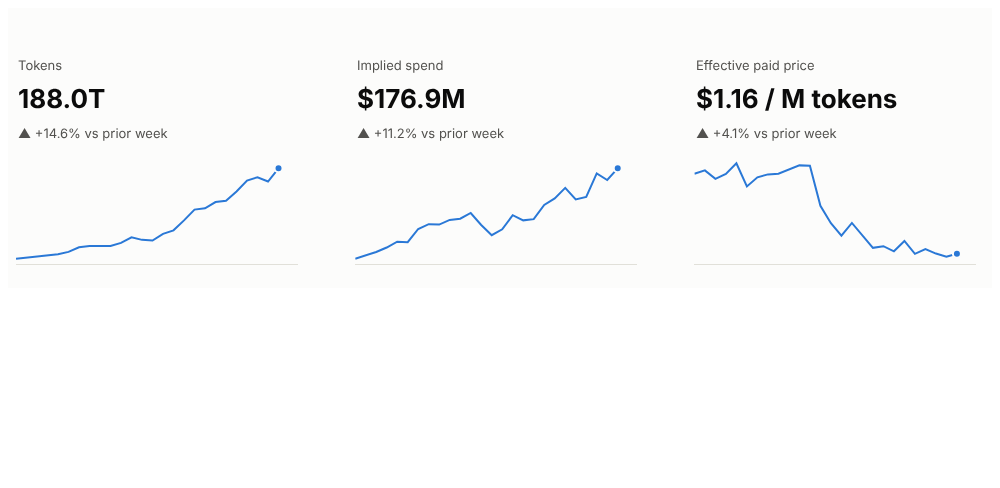
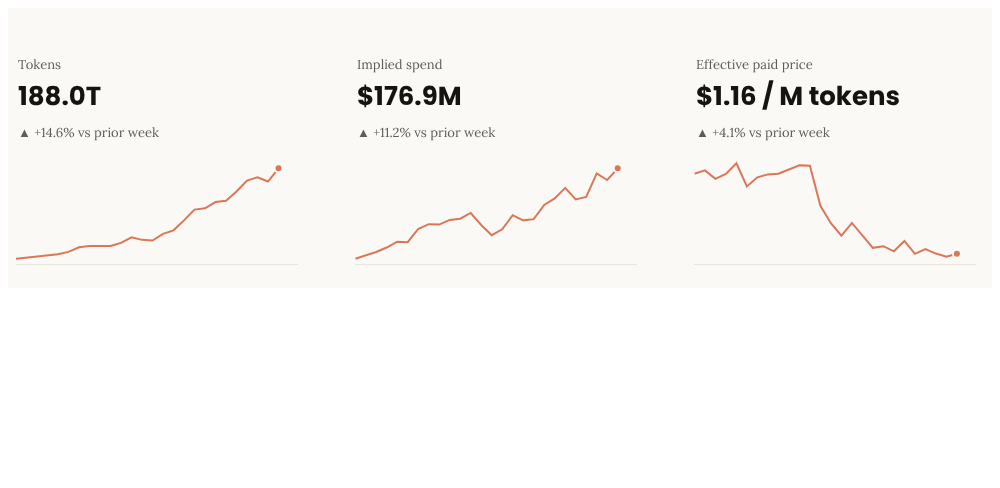
Hex cells in Anthropic brand colors and type
Claude-Session: https://claude.ai/code/session_01GEqrhtmDpfoTFhtnQ5vhsh

diff --git a/dashboards/hex/python/05_providers.py b/dashboards/hex/python/05_providers.py
@@ -1,5 +1,6 @@
 # Hex Python cell 5: provider share over time - tokens and spend side by side.
-# Inputs: `selected_providers` (multiselect, options = provider_options) and
+# Inputs: `selected_providers` (multiselect, options = provider_options,
+#         default = default_providers) and
 #         `token_basis` (dropdown): "All tokens" or "Paid tokens".
 token_col = "token_share" if token_basis == "All tokens" else "paid_token_share"
 p = providers[providers.week_start > latest_week - pd.Timedelta(weeks=26)].copy()
@@ -7,7 +8,7 @@ p["group"] = p.provider.where(p.provider.isin(selected_providers), "All others")
 p = p.groupby(["week_start", "group"], as_index=False)[[token_col, "spend_share"]].sum()
 
 fig_providers = make_subplots(
-    rows=1, cols=2, shared_yaxes=True, horizontal_spacing=0.04,
+    rows=1, cols=2, shared_yaxes=True, horizontal_spacing=0.12,
     subplot_titles=(f"Share of {token_basis.lower()}", "Share of implied spend"),
 )
 order = [g for g in top_providers if g in set(p.group)] + ["All others"]
@@ -16,17 +17,37 @@ for g in order:
     for col, value in ((1, token_col), (2, "spend_share")):
         fig_providers.add_trace(go.Scatter(
             x=d.week_start, y=d[value], mode="lines", name=g, legendgroup=g,
-            showlegend=col == 1, line=dict(color=provider_colors[g], width=2),
+            showlegend=col == 1,
+            line=dict(color=provider_styles[g][0], width=2, dash=provider_styles[g][1]),
             hovertemplate=f"{g}<br>%{{x|%Y-%m-%d}}: %{{y:.1%}}<extra></extra>",
         ), row=1, col=col)
+# Direct labels at the line ends when there are few enough lines to label cleanly; labels
+# that would overlap are nudged apart vertically.
+if len(order) <= 4:
+    last = p[p.week_start == p.week_start.max()]
+    for col, value in ((1, token_col), (2, "spend_share")):
+        ends = sorted(
+            (float(last.loc[last.group == g, value].iloc[0]), g)
+            for g in order if (last.group == g).any()
+        )
+        gap = 0.045 * max(p[token_col].max(), p.spend_share.max())
+        placed = []
+        for y, g in ends:
+            y_label = max(y, placed[-1] + gap) if placed else y
+            placed.append(y_label)
+            fig_providers.add_annotation(
+                x=f"{last.week_start.iloc[0]:%Y-%m-%d}", y=y_label, text=g,
+                showarrow=False, xanchor="left", xshift=6, font=dict(size=11, color=INK_2),
+                row=1, col=col,
+            )
 base_layout(
     fig_providers, "Who holds the tokens, and who holds the spend",
     "A provider whose spend share is above its token share sells pricier tokens. Last 26 weeks.",
     height=440,
 )
-fig_providers.update_layout(margin=dict(t=110))
+fig_providers.update_layout(margin=dict(t=110, r=90))
 fig_providers.update_yaxes(tickformat=".0%", rangemode="tozero")
-fig_providers.update_annotations(font=dict(color=INK_2, size=13), xanchor="left", x=None)
-for i, a in enumerate(fig_providers.layout.annotations[:2]):
-    a.update(x=[0, 0.52][i], y=1.04, yanchor="bottom")
+for i, a in enumerate(fig_providers.layout.annotations[:2]):  # the two panel titles
+    a.update(x=[0, 0.56][i], y=1.04, xanchor="left", yanchor="bottom",
+             font=dict(color=INK_2, size=13))
 fig_providers

diff --git a/dashboards/hex/python/01_setup.py b/dashboards/hex/python/01_setup.py
@@ -3,20 +3,27 @@ import pandas as pd
 import plotly.graph_objects as go
 from plotly.subplots import make_subplots
 
-SURFACE = "#fcfcfb"
-INK, INK_2, MUTED = "#0b0b0b", "#52514e", "#898781"
-GRID, AXIS = "#e1e0d9", "#c3c2b7"
-UP, DOWN = "#2a78d6", "#e34948"  # diverging pair: increase / decrease
-BAND = "#cde2fb"
-SERIES = ["#2a78d6", "#eb6834", "#1baf7a", "#eda100", "#e87ba4", "#008300", "#6250d6", "#898781"]
-FONT = dict(family='system-ui, -apple-system, "Segoe UI", sans-serif', color=INK, size=13)
+# Anthropic brand palette (github.com/anthropics/skills, brand-guidelines). The blue and
+# green accents are used one step darker so lines clear 3:1 contrast on the light surface;
+# orange and green are hard to tell apart for red-green colorblind readers, so series also
+# differ by dash pattern and carry direct labels.
+SURFACE = "#faf9f5"  # brand Light
+INK, INK_2, MUTED = "#141413", "#5e5d58", "#87867f"  # brand Dark, then two grays toward Mid Gray
+GRID, AXIS = "#e8e6dc", "#b0aea5"  # brand Light Gray, Mid Gray
+ORANGE, BLUE, GREEN = "#d97757", "#4f7fae", "#5f7a3f"
+UP, DOWN = BLUE, ORANGE  # bridge: increase / decrease
+BAND = "#dbe6f1"  # blue tint for the forecast interval
+HEADING_FONT = "Poppins, Arial, sans-serif"
+BODY_FONT = "Lora, Georgia, serif"
+FONT = dict(family=HEADING_FONT, color=INK, size=13)
 SOURCE = "Source: OpenRouter (openrouter.ai/rankings), CC BY 4.0"
 
 
 def base_layout(fig, title, subtitle=None, height=380):
     text = f"<b>{title}</b>"
     if subtitle:
-        text += f"<br><span style='font-size:12px;color:{INK_2}'>{subtitle}</span>"
+        text += (f"<br><span style='font-size:12px;color:{INK_2};font-family:{BODY_FONT}'>"
+                 f"{subtitle}</span>")
     fig.update_layout(
         title=dict(text=text, x=0, xanchor="left", font=dict(size=16)),
         font=FONT, height=height, paper_bgcolor=SURFACE, plot_bgcolor=SURFACE,
@@ -59,14 +66,18 @@ providers = as_dates(providers, "week_start")
 latest_week = pd.to_datetime(as_of["latest_week"].iloc[0])
 data_through = pd.to_datetime(as_of["data_through_date"].iloc[0])
 
-# Provider colors follow the provider, not its rank in a filtered view: fixed once from the
-# latest week's spend. The top 7 get colors; the rest fold into "All others" (gray).
+# Provider styles follow the provider, not its rank in a filtered view: fixed once from the
+# latest week's spend. The top 7 get a color and dash; the rest fold into "All others".
 latest_spend = providers[providers.week_start == latest_week].sort_values(
     "implied_spend_usd", ascending=False
 )
 top_providers = [p for p in latest_spend.provider if p != "other"][:7]
-provider_colors = {p: SERIES[i] for i, p in enumerate(top_providers)} | {"All others": SERIES[7]}
+STYLES = [(c, d) for d in ("solid", "dash", "dot") for c in (ORANGE, BLUE, GREEN)]
+provider_styles = {p: STYLES[i] for i, p in enumerate(top_providers)} | {
+    "All others": (AXIS, "dot")
+}
 provider_options = top_providers  # options for the provider multiselect input
+default_providers = top_providers[:3]  # the multiselect's default
 
 # For the app's markdown cells: {{ data_through_label }} and {{ latest_week_label }}
 data_through_label = f"{data_through:%Y-%m-%d}"

diff --git a/dashboards/hex/python/02_headline.py b/dashboards/hex/python/02_headline.py
@@ -15,7 +15,7 @@ fig_headline = make_subplots(rows=1, cols=3, horizontal_spacing=0.06)
 for i, (name, value, change, data, col, fmt) in enumerate(tiles, start=1):
     fig_headline.add_trace(
         go.Scatter(
-            x=data.week_start, y=data[col], mode="lines", line=dict(color=SERIES[0], width=2),
+            x=data.week_start, y=data[col], mode="lines", line=dict(color=ORANGE, width=2),
             hovertemplate="%{x|%b %d, %Y}: %{customdata}<extra></extra>",
             customdata=[fmt(v) for v in data[col]], showlegend=False,
         ),
@@ -23,21 +23,21 @@ for i, (name, value, change, data, col, fmt) in enumerate(tiles, start=1):
     )
     fig_headline.add_trace(
         go.Scatter(x=[data.week_start.iloc[-1]], y=[data[col].iloc[-1]], mode="markers",
-                   marker=dict(color=SERIES[0], size=8, line=dict(color=SURFACE, width=2)),
+                   marker=dict(color=ORANGE, size=8, line=dict(color=SURFACE, width=2)),
                    hoverinfo="skip", showlegend=False),
         row=1, col=i,
     )
     arrow = "" if pd.isna(change) else ("▲" if change > 0 else "▼" if change < 0 else "")
     delta = "n/a" if pd.isna(change) else f"{arrow} {change:+.1%} vs prior week"
     domain = fig_headline.layout[f"xaxis{'' if i == 1 else i}"].domain
-    for y, text, size, color in (
-        (1.78, name, 13, INK_2),
-        (1.40, f"<b>{value}</b>", 26, INK),
-        (1.14, delta, 13, INK_2),
+    for y, text, size, color, family in (
+        (1.78, name, 13, INK_2, BODY_FONT),
+        (1.40, f"<b>{value}</b>", 26, INK, HEADING_FONT),
+        (1.14, delta, 13, INK_2, BODY_FONT),
     ):
         fig_headline.add_annotation(
             x=domain[0], y=y, xref="paper", yref="paper", xanchor="left", yanchor="bottom",
-            showarrow=False, text=text, font=dict(size=size, color=color),
+            showarrow=False, text=text, font=dict(size=size, color=color, family=family),
         )
 base_layout(fig_headline, "", height=280)
 fig_headline.update_layout(title=None, margin=dict(l=8, r=16, t=150, b=24))

diff --git a/dashboards/hex/python/04_forecast.py b/dashboards/hex/python/04_forecast.py
@@ -17,7 +17,7 @@ fig_forecast.add_trace(go.Scatter(
 ))
 fig_forecast.add_trace(go.Scatter(
     x=f.target_week, y=f.point, mode="lines+markers", name="Forecast, frozen a week earlier",
-    line=dict(color=SERIES[0], width=2, dash="dash"), marker=dict(size=8, color=SERIES[0]),
+    line=dict(color=BLUE, width=2, dash="dash"), marker=dict(size=8, color=BLUE),
     customdata=[[fmt(p), fmt(lo) if pd.notna(lo) else "n/a", fmt(hi) if pd.notna(hi) else "n/a"]
                 for p, lo, hi in zip(f.point, f.lower_bound, f.upper_bound)],
     hovertemplate="Week of %{x|%Y-%m-%d}<br>Forecast %{customdata[0]}"

diff --git a/dashboards/hex/preview.py b/dashboards/hex/preview.py
@@ -31,7 +31,7 @@ def run(db_path: str, inputs: dict | None = None) -> dict:
     ns.update(DEFAULT_INPUTS | (inputs or {}))
     for cell in sorted((HERE / "python").glob("*.py")):
         if cell.name.startswith("05") and "selected_providers" not in ns:
-            ns["selected_providers"] = ns["provider_options"][:5]  # the input's default
+            ns["selected_providers"] = ns["default_providers"]  # the input's default
         exec(compile(cell.read_text(), str(cell), "exec"), ns)  # noqa: S102 - stands in for Hex
     return {k: v for k, v in ns.items() if k.startswith("fig_")}
 

diff --git a/dashboards/hex/README.md b/dashboards/hex/README.md
@@ -26,6 +26,15 @@ rather than the dashboard.
 python dashboards/hex/preview.py --duckdb data/warehouse.duckdb --out build/hex   # needs pandas, plotly
 ```
 
+## Style
+
+Colors and type follow Anthropic's published brand guidelines
+([anthropics/skills, brand-guidelines](https://github.com/anthropics/skills/tree/main/skills/brand-guidelines)):
+Dark `#141413` on Light `#faf9f5`, orange / blue / green accents, Poppins for headings and
+numbers, Lora for body text. The blue and green are used a step darker for contrast, and
+because orange and green are hard to tell apart with red-green colorblindness, provider lines
+also differ by dash pattern and are labeled at their ends.
+
 ## Build the app in Hex (about 30 minutes, once)
 
 Before you start: the BigQuery steps in the main README are done, so
@@ -52,7 +61,7 @@ because each cell uses names defined above it.
 | 8 | Python | `python/01_setup.py` | |
 | 9 | Input: Dropdown | options `Tokens`, `Implied spend`; default `Tokens` | `forecast_metric` |
 | 10 | Input: Dropdown | options `All tokens`, `Paid tokens`; default `Paid tokens` | `token_basis` |
-| 11 | Input: Multiselect | options from variable `provider_options`; default: the first 5 | `selected_providers` |
+| 11 | Input: Multiselect | options from variable `provider_options`; default from variable `default_providers` (top 3 by spend) | `selected_providers` |
 | 12-15 | Python | `python/02_headline.py` ... `python/05_providers.py` | |
 | 16 | Table | dataframe `bridge_providers`, format the dollar columns as currency | |
 | 17 | Markdown | the "Bottom of the app" block in `app_text.md` | |

diff --git a/dashboards/hex/app_text.md b/dashboards/hex/app_text.md
@@ -13,4 +13,4 @@ Usage across the top 50 models on OpenRouter, priced at list prices. **Implied s
 
 Every number here is read from the governed `metrics` views in BigQuery, the same ones the API and the weekly memo use. Code: [github.com/lqf2b8/llm-market-metrics](https://github.com/lqf2b8/llm-market-metrics)
 
-Source: OpenRouter (openrouter.ai/rankings), CC BY 4.0
+Source: OpenRouter (openrouter.ai/rankings), CC BY 4.0. An independent project, not affiliated with Anthropic or OpenRouter.
